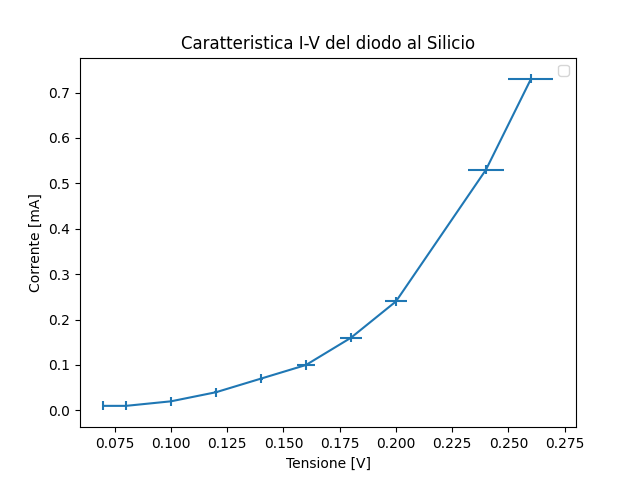
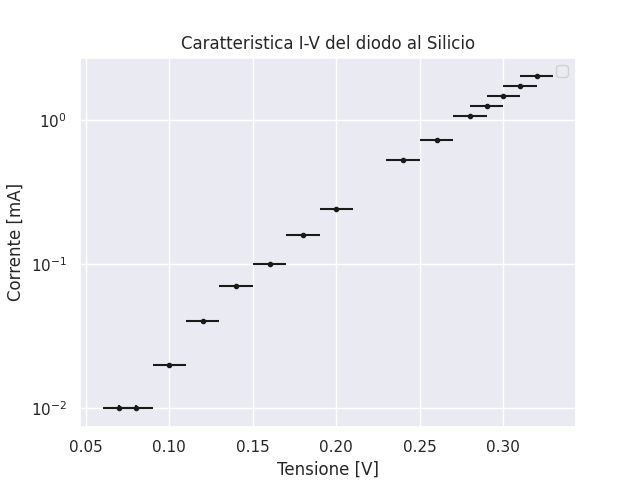
default

diff --git a/prima_prova/gesiparser.cpp b/prima_prova/gesiparser.cpp
@@ -1,0 +1,125 @@
+#include<fstream>
+#include<cmath>
+#include<string>
+
+struct Error_Point
+{
+    double V;
+    double e_V;
+    double I;
+    double e_I;
+
+    Error_Point(){}
+    friend std::istream& operator>>(std::istream& is, Error_Point& p)
+    {
+        is>>p.V>>p.e_V>>p.I>>p.e_I;
+	return is;
+    }
+};
+
+struct Error_Point_Array
+{
+    Error_Point el[15];
+    Error_Point_Array(){}
+
+    double fit_value(std::string scale)
+    {
+
+    }
+
+
+    friend std::istream& operator>>(std::istream& is, Error_Point_Array& arr)
+    {
+        for(int i=0;i<15;i++)
+	{
+	    is>>arr.el[i];
+	}
+	return is;
+    }
+    friend std::ostream& operator<<(std::ostream& os, Error_Point_Array& arr)
+    {
+        os<<"V = [";
+	for(int i=0;i<15;i++)
+	{
+	    os<<arr.el[i].V;
+	    if( i < 14)
+	        os<<", ";
+	    else
+	        os<<"]";
+	}
+	os<<"\n";
+
+        os<<"e_V = [";
+	for(int i=0;i<15;i++)
+	{
+	    os<<arr.el[i].e_V;
+	    if( i < 14)
+	        os<<", ";
+	    else
+	        os<<"]";
+	}
+	os<<"\n";
+
+        os<<"I = [";
+	for(int i=0;i<15;i++)
+	{
+	    os<<arr.el[i].I;
+	    if( i < 14)
+	        os<<", ";
+	    else
+	        os<<"]";
+	}
+	os<<"\n";
+
+        os<<"e_I = [";
+	for(int i=0;i<15;i++)
+	{
+	    os<<arr.el[i].e_I;
+	    if( i < 14)
+	        os<<", ";
+	    else
+	        os<<"]";
+	}
+	os<<"\n";
+    }
+};
+
+
+
+int main() 
+{
+  /* std::ifstream input;
+   input.open("calibrazione/dati.txt");
+   Error_Point_Array pydata;
+   input>>pydata;
+   input.close();
+
+   std::ofstream output;
+   output.open("calibrazione/dati.py");
+   output<<pydata;
+   output.close();*/
+   
+   std::ifstream input_1;
+   input_1.open("germanio/dati.txt");
+   Error_Point_Array pydata_1;
+   input_1>>pydata_1;
+   input_1.close();
+
+   std::ofstream output_1;
+   output_1.open("germanio/dati.py");
+   output_1<<pydata_1;
+   output_1.close();
+   
+   std::ifstream input_2;
+   input_2.open("silicio/dati.txt");
+   Error_Point_Array pydata_2;
+   input_2>>pydata_2;
+   input_2.close();
+
+   std::ofstream output_2;
+   output_2.open("silicio/dati.py");
+   output_2<<pydata_2;
+   output_2.close();
+}
+
+

diff --git a/prima_prova/silicio/dati.py b/prima_prova/silicio/dati.py
@@ -1,4 +1,4 @@
-V = [0.07, 0.08, 0.1, 0.12, 0.14, 0.16, 0.18, 0.2, 0.24, 0.26]
-e_V = [0.01, 0.01, 0.01, 0.01, 0.01, 0.01, 0.01, 0.01, 0.01, 0.01]
-I = [0.01, 0.01, 0.02, 0.04, 0.07, 0.1, 0.16, 0.24, 0.53, 0.73]
-e_I = [0.0004, 0.0004, 0.0005, 0.0007, 0.001, 0.004, 0.005, 0.005, 0.008, 0.01]
+V = [0.07, 0.08, 0.1, 0.12, 0.14, 0.16, 0.18, 0.2, 0.24, 0.26, 0.28, 0.29, 0.3, 0.31, 0.32]
+e_V = [0.01, 0.01, 0.01, 0.01, 0.01, 0.01, 0.01, 0.01, 0.01, 0.01, 0.01, 0.01, 0.01, 0.01, 0.01]
+I = [0.01, 0.01, 0.02, 0.04, 0.07, 0.1, 0.16, 0.24, 0.53, 0.73, 1.07, 1.26, 1.48, 1.74, 2.03]
+e_I = [0.0004, 0.0004, 0.0005, 0.0007, 0.001, 0.004, 0.005, 0.005, 0.008, 0.01, 0.04, 0.04, 0.04, 0.05, 0.05]

diff --git a/prima_prova/germanio/dati.py b/prima_prova/germanio/dati.py
@@ -1,4 +1,4 @@
-V = [0.4, 0.5, 0.54, 0.56, 0.58, 0.59, 0.6, 0.61, 0.62, 0.64]
-e_V = [0.01, 0.01, 0.01, 0.01, 0.01, 0.01, 0.01, 0.01, 0.01, 0.01]
-I = [0.01, 0.06, 0.12, 0.2, 0.25, 0.33, 0.42, 0.5, 0.6, 0.92]
-e_I = [0.0001, 0.0009, 0.003, 0.005, 0.006, 0.006, 0.007, 0.008, 0.009, 0.01]
+V = [0.4, 0.5, 0.54, 0.56, 0.58, 0.59, 0.6, 0.61, 0.62, 0.64, 0.65, 0.66, 0.67, 0.68, 0.7]
+e_V = [0.01, 0.01, 0.01, 0.01, 0.01, 0.01, 0.01, 0.01, 0.01, 0.01, 0.01, 0.01, 0.01, 0.01, 0.01]
+I = [0.01, 0.06, 0.12, 0.2, 0.25, 0.33, 0.42, 0.5, 0.6, 0.92, 1.06, 1.27, 1.55, 1.88, 2.65]
+e_I = [0.0001, 0.0009, 0.003, 0.005, 0.006, 0.006, 0.007, 0.008, 0.009, 0.01, 0.03, 0.03, 0.05, 0.05, 0.06]

diff --git a/prima_prova/calibrazione/calibrazione.py b/prima_prova/calibrazione/calibrazione.py
@@ -1,9 +1,12 @@
 import numpy
+import seaborn
 from math import exp
 from matplotlib import pyplot
 from dati import V_mul, e_V_mul, V_osc, e_V_osc
 
-pyplot.errorbar(V_mul, V_osc, e_V_mul, e_V_osc, barsabove=True, uplims=True, lolims=True, ls = 'none', fmt = '.', capthick = 1)
+seaborn.set()
+
+pyplot.errorbar(V_mul, V_osc, e_V_osc, e_V_mul, fmt='.k')
 pyplot.yscale('linear') 
 pyplot.xlabel('Tensione Multimetro [V]')
 pyplot.ylabel('Corrente Oscilloscopio [V]')

diff --git a/prima_prova/germanio/germanio.py b/prima_prova/germanio/germanio.py
@@ -1,10 +1,13 @@
 import numpy
+import seaborn
 from math import exp
 from matplotlib import pyplot
 from dati import V, e_V, I, e_I
 
-pyplot.errorbar(V, I, e_V, e_I)
-pyplot.yscale('linear')
+seaborn.set()
+
+pyplot.errorbar(V, I, e_I, e_V, fmt='.k')
+pyplot.yscale('log')
 pyplot.xlabel('Tensione [V]')
 pyplot.ylabel('Corrente [mA]')
 pyplot.title('Caratteristica I-V del diodo al Germanio')

diff --git a/prima_prova/silicio/silicio.py b/prima_prova/silicio/silicio.py
@@ -1,10 +1,13 @@
 import numpy
+import seaborn
 from math import exp
 from matplotlib import pyplot
 from dati import V, e_V, I, e_I
 
-pyplot.errorbar(V, I, e_V, e_I)
-pyplot.yscale('linear')
+seaborn.set()
+
+pyplot.errorbar(V, I, e_I, e_V, fmt='.k')
+pyplot.yscale('log')
 pyplot.xlabel('Tensione [V]')
 pyplot.ylabel('Corrente [mA]')
 pyplot.title('Caratteristica I-V del diodo al Silicio')
